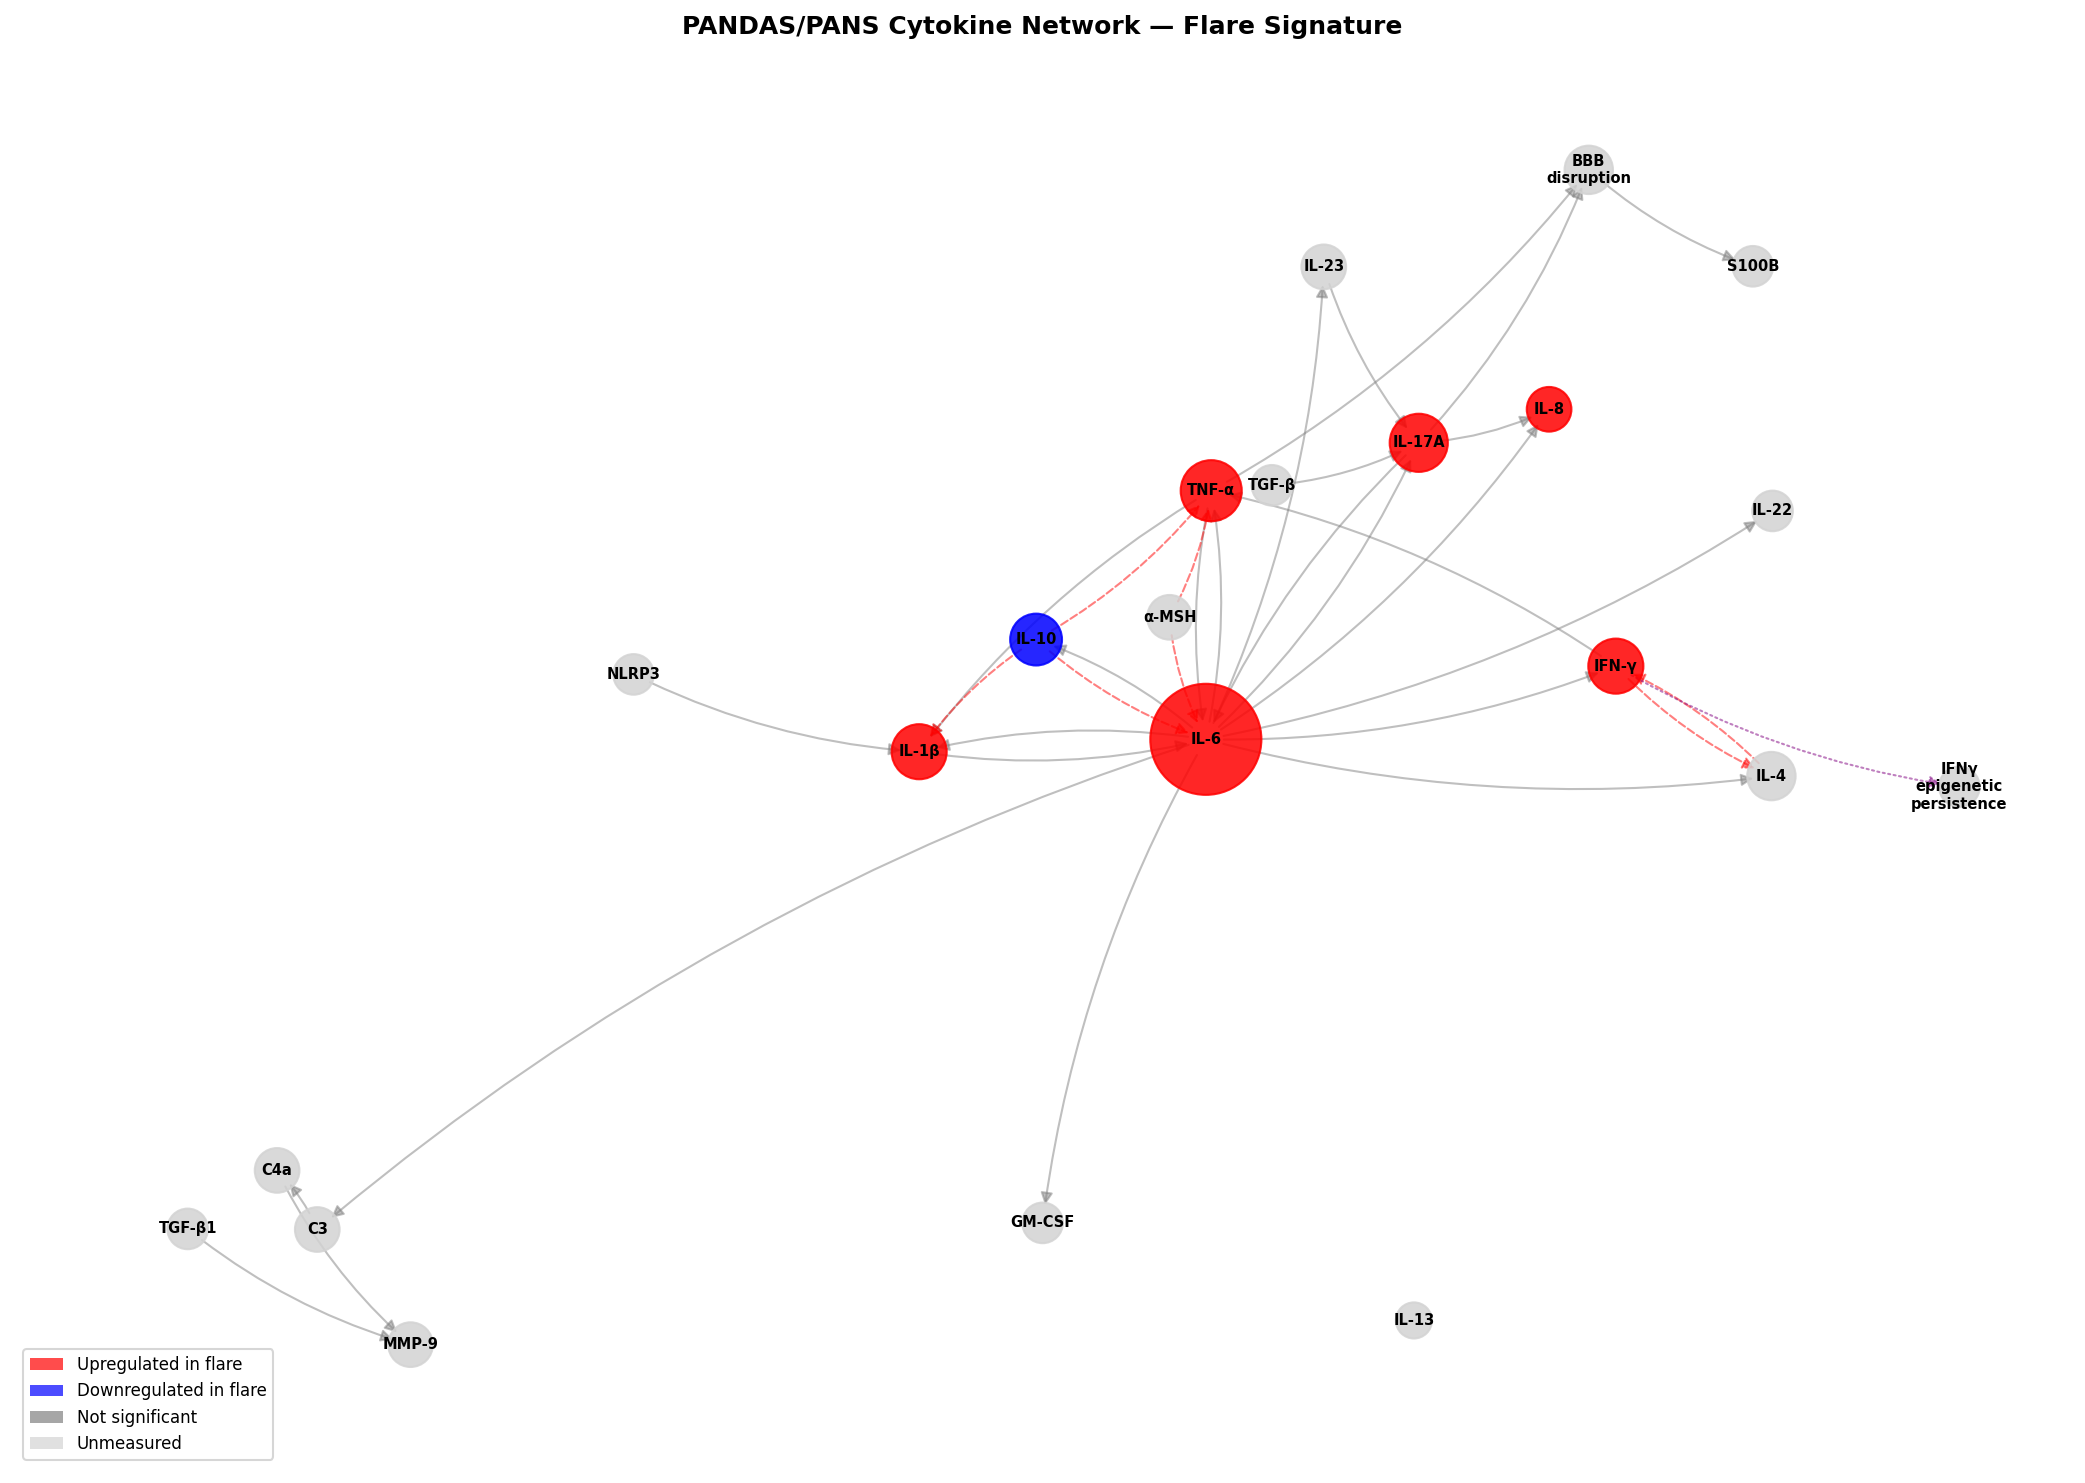
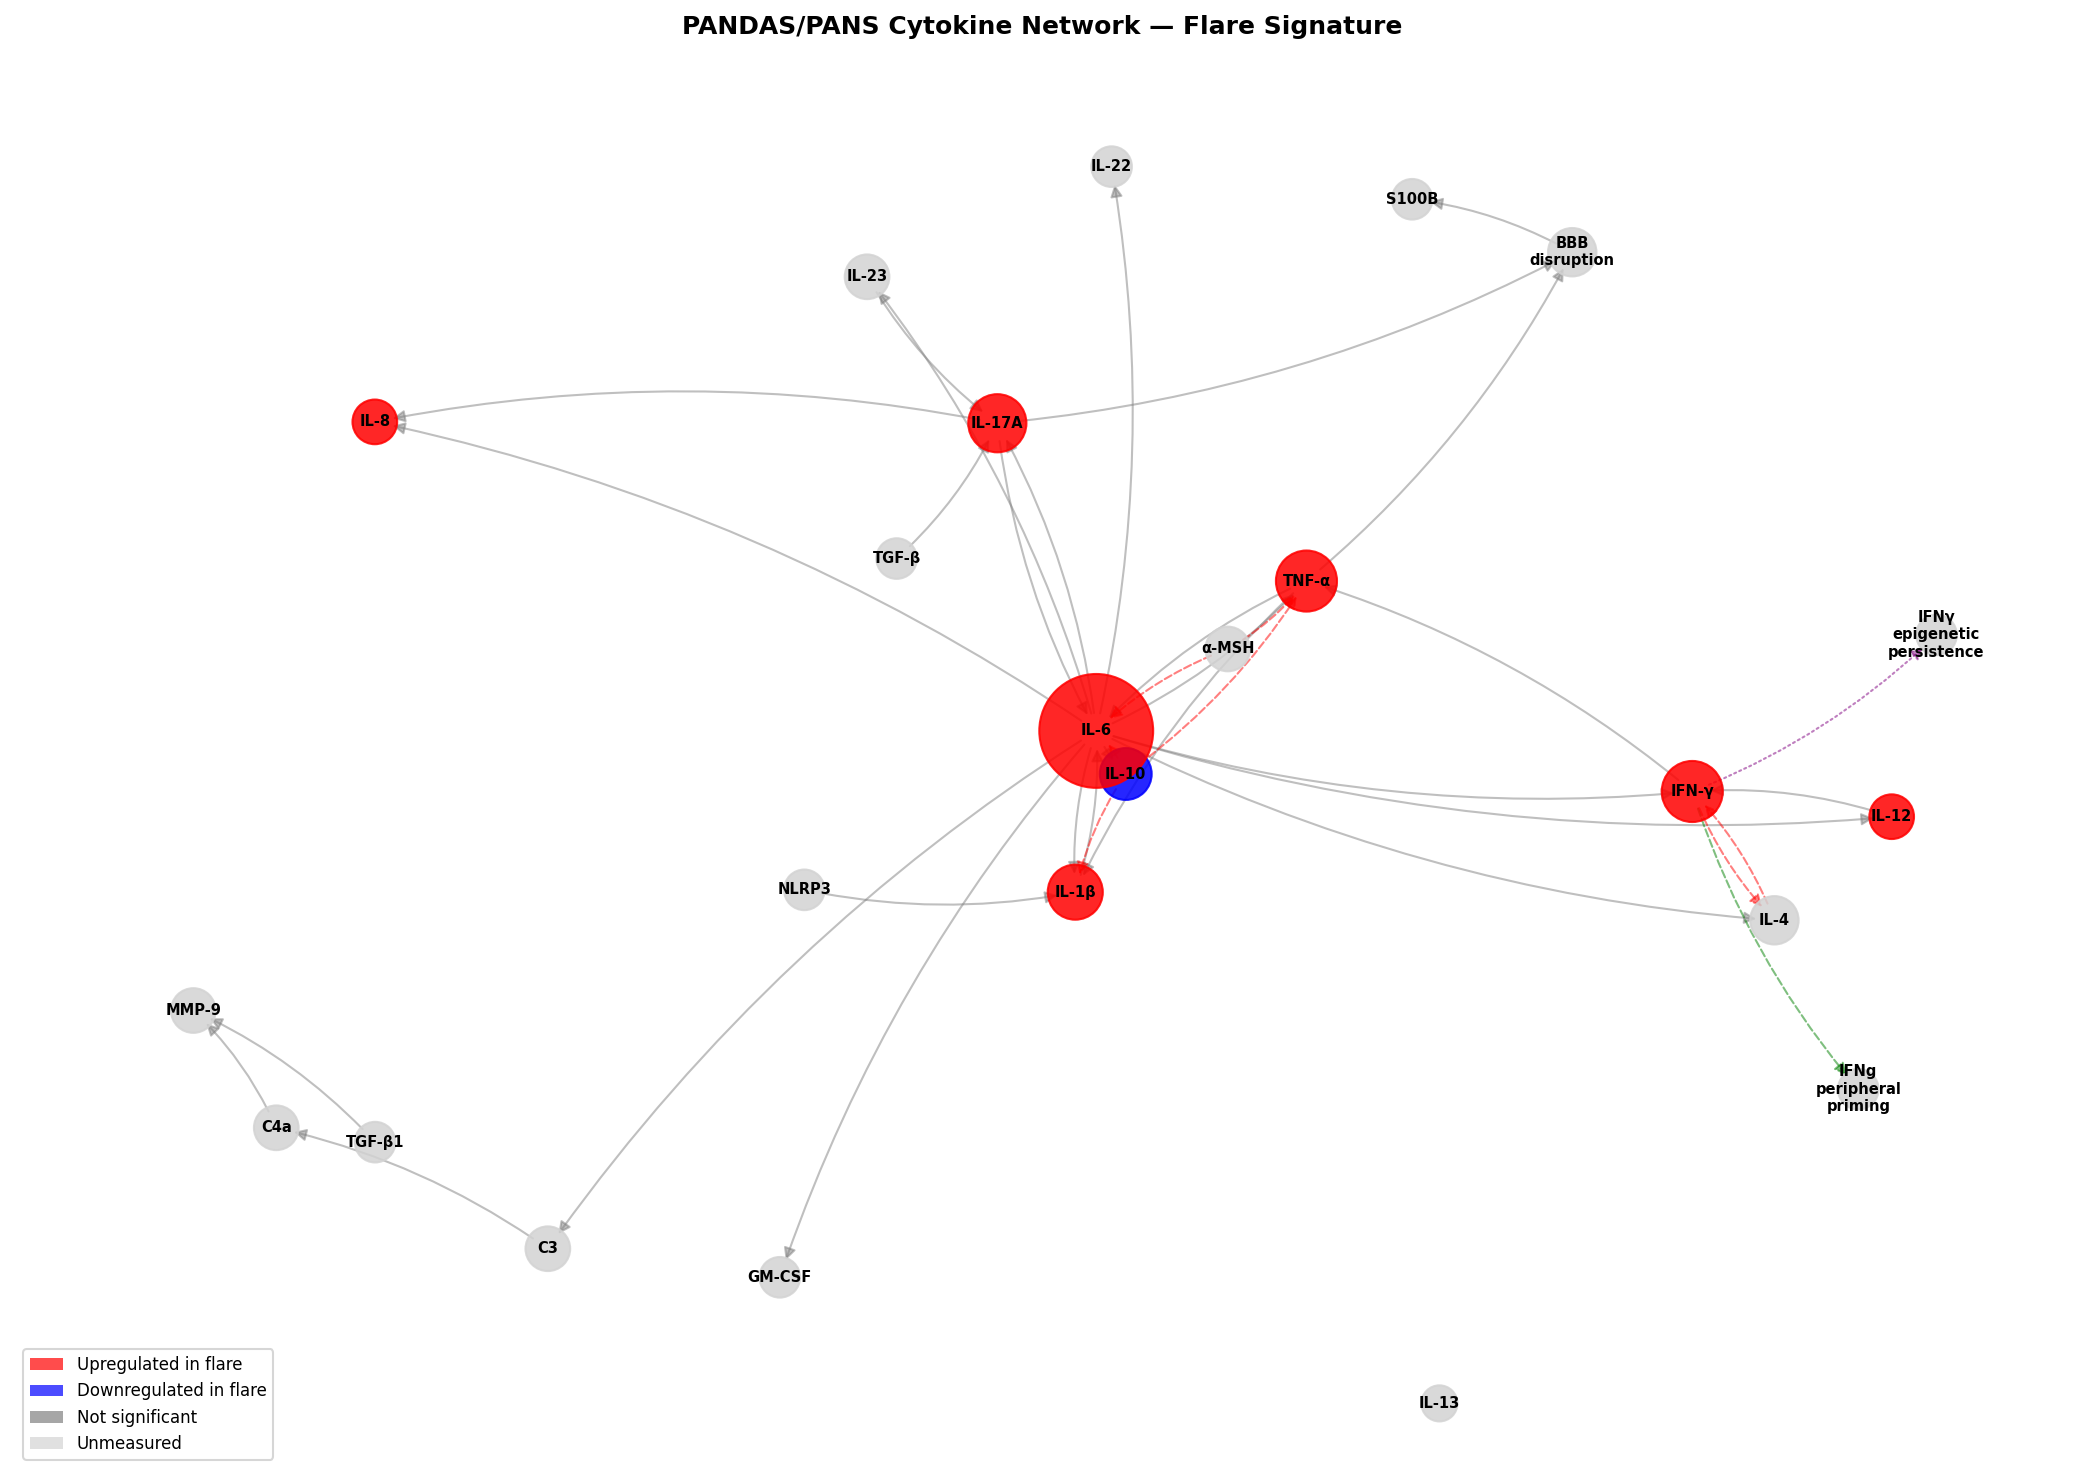
feat(cytokine): add IFNg peripheral-priming node and IL-12 to network
Add IFNg_peripheral_priming node (reversible, JAK/STAT, hours timescale,
Gorin 2026 PMID 40599159) completing the two-compartment IFNγ model
alongside the existing irreversible epigenetic arm.

Add IL-12 node (th1) with IL-12→IFN-γ differentiation edge and
IL-6→IL-12 modulation edge. All 8 significant meta-analysis cytokines
are now represented. Network: 24 nodes, 37 edges.

diff --git a/src/bioagentics/cytokine_network.py b/src/bioagentics/cytokine_network.py
@@ -6,6 +6,8 @@ Builds a networkx-based cytokine interaction network with:
 - CIRS/complement module (TGF-β1, MMP-9, C4a, α-MSH, C3)
 - BBB module (IL-17A → BBB disruption → S100B)
 - IFNγ epigenetic persistence node (Shammas 2026, PMID 41448185)
+- IFNγ peripheral priming node — reversible arm (Gorin 2026, PMID 40599159)
+- IL-12 Th1-polarizing node
 - Meta-analysis overlay (upregulated=red, downregulated=blue, grey=ns)
 
 Usage::
@@ -75,6 +77,10 @@ NODE_TYPES = {
     "S100B": "bbb",
     # Epigenetic persistence (Shammas 2026)
     "IFNγ_epigenetic_persistence": "epigenetic",
+    # IFNγ peripheral priming — reversible arm (Gorin 2026, PMID 40599159)
+    "IFNg_peripheral_priming": "peripheral_priming",
+    # IL-12: Th1-polarizing cytokine driving IFN-γ production
+    "IL-12": "th1",
 }
 
 # Curated cytokine-cytokine interactions (source → target)
@@ -134,6 +140,15 @@ SEED_INTERACTIONS = [
     # outlasts the immune response
     ("IFN-γ", "IFNγ_epigenetic_persistence", {"type": "epigenetic_damage", "module": "epigenetic",
      "timescale": "weeks-months", "mechanism": "chromatin_closing"}),
+
+    # IFNγ peripheral priming — reversible arm (Gorin 2026, PMID 40599159)
+    # JAK/STAT-dependent; decays when IFNγ signaling stops
+    ("IFN-γ", "IFNg_peripheral_priming", {"type": "reversible_priming", "module": "peripheral_priming",
+     "timescale": "hours", "mechanism": "JAK_STAT"}),
+
+    # IL-12: Th1-polarizing cytokine
+    ("IL-12", "IFN-γ", {"type": "differentiation", "module": "th1"}),
+    ("IL-6", "IL-12", {"type": "modulation", "module": "hub"}),
 ]
 
 
@@ -164,10 +179,15 @@ def build_network() -> nx.DiGraph:
     # Mark NLRP3 as independent arm
     G.nodes["NLRP3"]["is_independent_arm"] = True
 
-    # Mark epigenetic persistence node
+    # Mark epigenetic persistence node (irreversible arm)
     if "IFNγ_epigenetic_persistence" in G.nodes:
         G.nodes["IFNγ_epigenetic_persistence"]["timescale"] = "weeks-months"
         G.nodes["IFNγ_epigenetic_persistence"]["mechanism"] = "chromatin_closing_neurons"
+
+    # Mark peripheral priming node (reversible arm)
+    if "IFNg_peripheral_priming" in G.nodes:
+        G.nodes["IFNg_peripheral_priming"]["timescale"] = "hours"
+        G.nodes["IFNg_peripheral_priming"]["mechanism"] = "JAK_STAT_signaling"
 
     logger.info("Built network: %d nodes, %d edges", G.number_of_nodes(), G.number_of_edges())
     return G
@@ -229,6 +249,7 @@ _MODULE_CENTERS = {
     "cirs": (-0.5, -0.3),
     "bbb": (0.3, 0.6),
     "epigenetic": (0.6, 0.3),
+    "peripheral_priming": (0.6, 0.1),
     "cross_regulation": (0.5, 0.0),
 }
 
@@ -286,6 +307,9 @@ def visualize_network(
         elif etype == "epigenetic_damage":
             edge_colors.append("purple")
             edge_styles.append("dotted")
+        elif etype == "reversible_priming":
+            edge_colors.append("green")
+            edge_styles.append("dashed")
         else:
             edge_colors.append("grey")
             edge_styles.append("solid")
